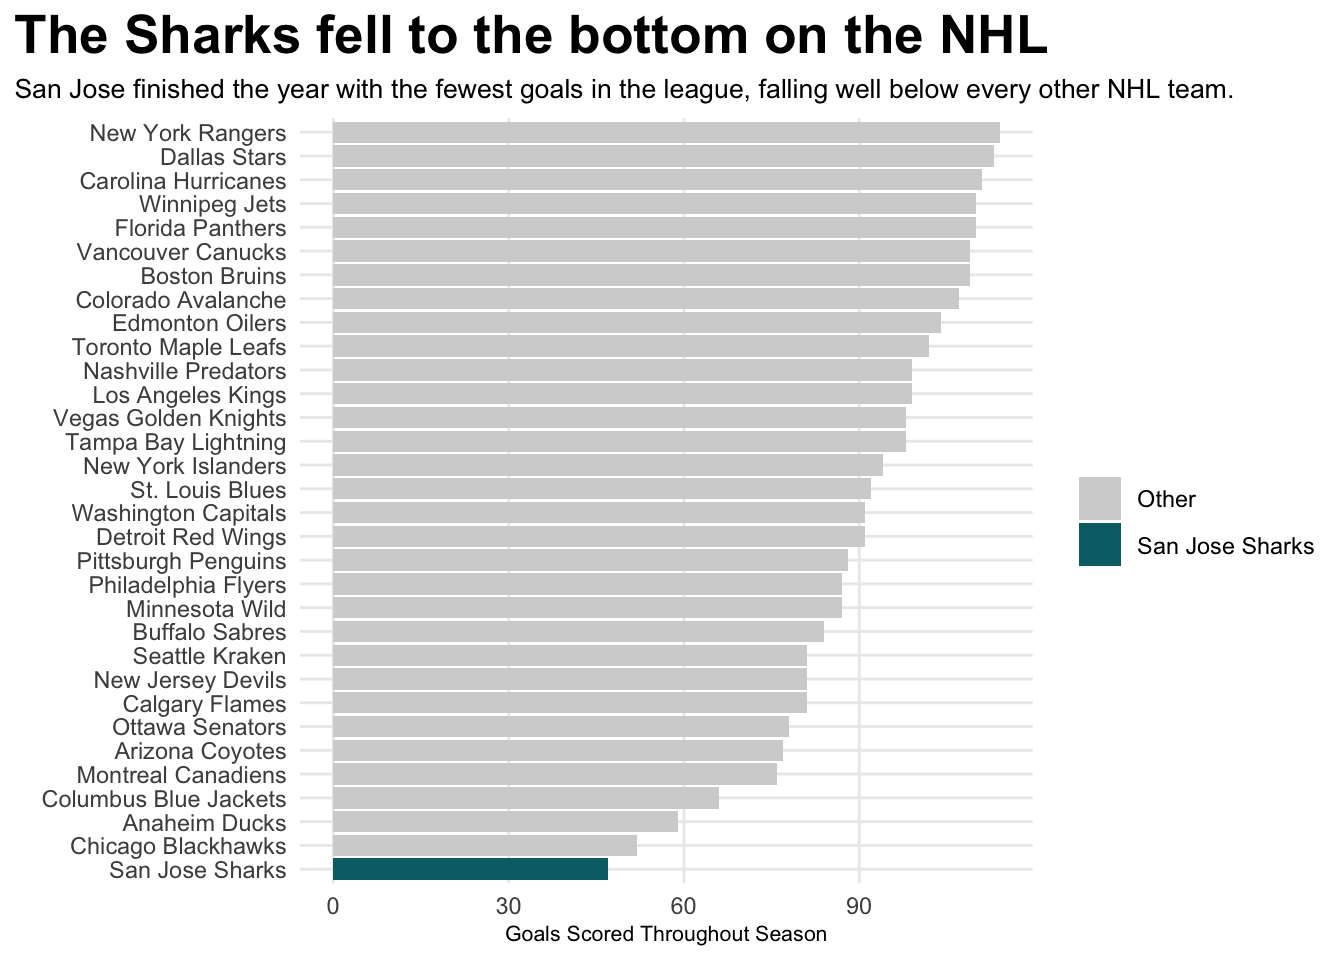
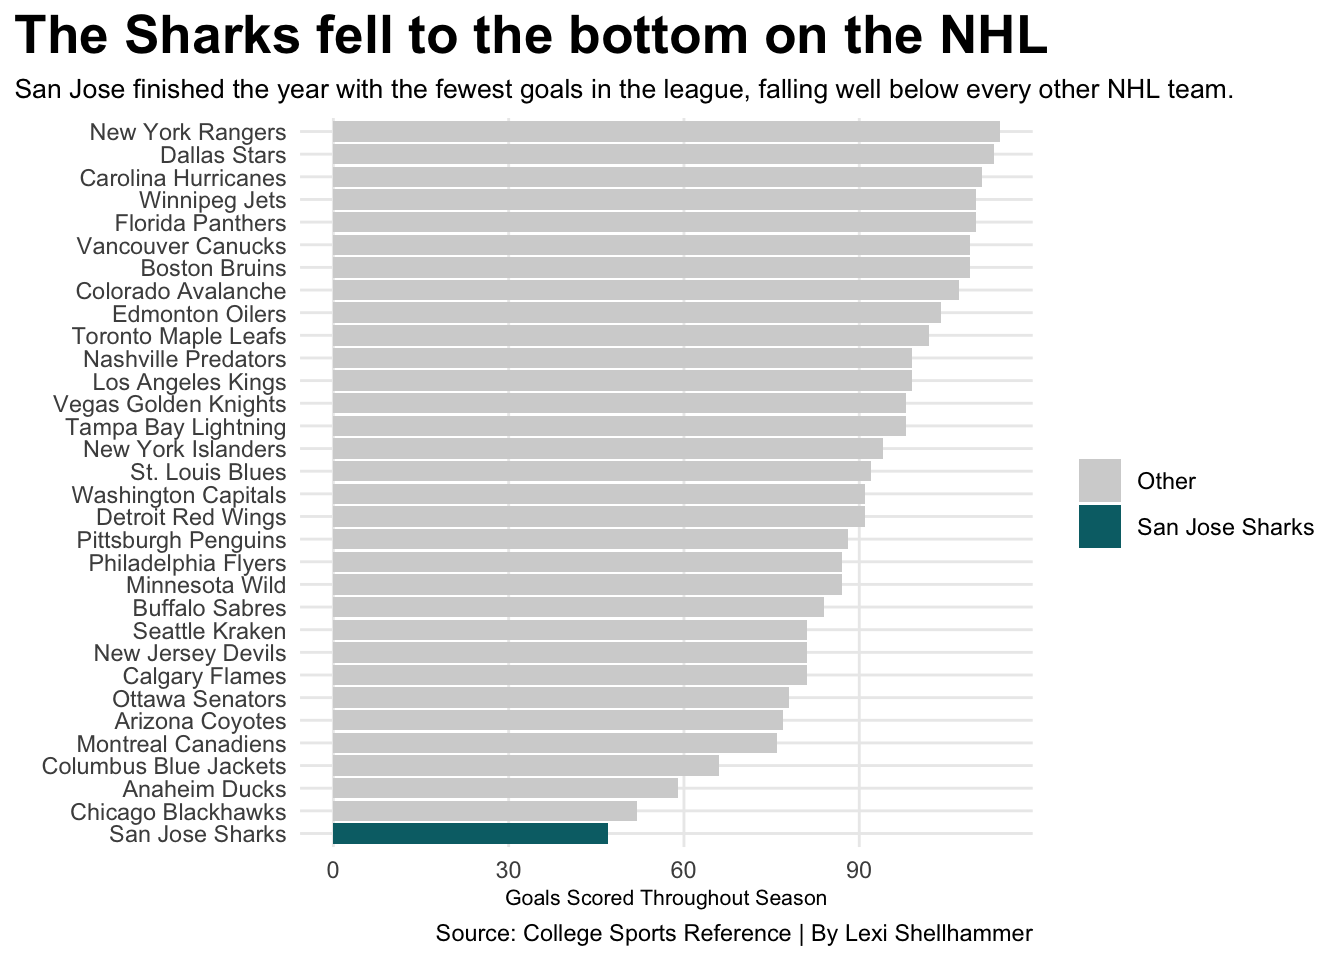
final

Changed region(s): [[0.0312, 0.125, 0.9688, 1.0]]

diff --git a/posts/are-the-2024-san-jose-sharks-really-that-bad/index.html b/posts/are-the-2024-san-jose-sharks-really-that-bad/index.html
@@ -219,18 +219,20 @@ pre > code.sourceCode > span > a:first-child::before { text-decoration: underlin
 <span id="cb1-14"><a href="#cb1-14" aria-hidden="true" tabindex="-1"></a>  <span class="fu">labs</span>(</span>
 <span id="cb1-15"><a href="#cb1-15" aria-hidden="true" tabindex="-1"></a>    <span class="at">title =</span> <span class="st">"The Sharks fell to the bottom on the NHL"</span>,</span>
 <span id="cb1-16"><a href="#cb1-16" aria-hidden="true" tabindex="-1"></a>    <span class="at">subtitle =</span> <span class="st">"San Jose finished the year with the fewest goals in the league, falling well below every other NHL team."</span>,</span>
-<span id="cb1-17"><a href="#cb1-17" aria-hidden="true" tabindex="-1"></a>    <span class="at">x =</span> <span class="st">" "</span>,</span>
-<span id="cb1-18"><a href="#cb1-18" aria-hidden="true" tabindex="-1"></a>    <span class="at">y =</span> <span class="st">"Goals Scored Throughout Season"</span>,</span>
-<span id="cb1-19"><a href="#cb1-19" aria-hidden="true" tabindex="-1"></a>    <span class="at">fill =</span> <span class="st">""</span></span>
-<span id="cb1-20"><a href="#cb1-20" aria-hidden="true" tabindex="-1"></a>  ) <span class="sc">+</span></span>
-<span id="cb1-21"><a href="#cb1-21" aria-hidden="true" tabindex="-1"></a>  <span class="fu">theme_minimal</span>() <span class="sc">+</span> </span>
-<span id="cb1-22"><a href="#cb1-22" aria-hidden="true" tabindex="-1"></a>  <span class="fu">theme</span>(</span>
-<span id="cb1-23"><a href="#cb1-23" aria-hidden="true" tabindex="-1"></a>    <span class="at">plot.title =</span> <span class="fu">element_text</span>(<span class="at">size =</span> <span class="dv">20</span>, <span class="at">face =</span> <span class="st">"bold"</span>),</span>
-<span id="cb1-24"><a href="#cb1-24" aria-hidden="true" tabindex="-1"></a>    <span class="at">axis.title =</span> <span class="fu">element_text</span>(<span class="at">size =</span> <span class="dv">8</span>), </span>
-<span id="cb1-25"><a href="#cb1-25" aria-hidden="true" tabindex="-1"></a>    <span class="at">plot.subtitle =</span> <span class="fu">element_text</span>(<span class="at">size=</span><span class="dv">10</span>), </span>
-<span id="cb1-26"><a href="#cb1-26" aria-hidden="true" tabindex="-1"></a>    <span class="at">panel.grid.minor =</span> <span class="fu">element_blank</span>(),</span>
-<span id="cb1-27"><a href="#cb1-27" aria-hidden="true" tabindex="-1"></a>    <span class="at">plot.title.position =</span> <span class="st">"plot"</span></span>
-<span id="cb1-28"><a href="#cb1-28" aria-hidden="true" tabindex="-1"></a>    ) </span></code></pre></div><button title="Copy to Clipboard" class="code-copy-button"><i class="bi"></i></button></div>
+<span id="cb1-17"><a href="#cb1-17" aria-hidden="true" tabindex="-1"></a>    <span class="at">caption=</span><span class="st">"Source: College Sports Reference | By Lexi Shellhammer"</span>,</span>
+<span id="cb1-18"><a href="#cb1-18" aria-hidden="true" tabindex="-1"></a>    <span class="at">x =</span> <span class="st">" "</span>,</span>
+<span id="cb1-19"><a href="#cb1-19" aria-hidden="true" tabindex="-1"></a>    <span class="at">y =</span> <span class="st">"Goals Scored Throughout Season"</span>,</span>
+<span id="cb1-20"><a href="#cb1-20" aria-hidden="true" tabindex="-1"></a>    </span>
+<span id="cb1-21"><a href="#cb1-21" aria-hidden="true" tabindex="-1"></a>    <span class="at">fill =</span> <span class="st">""</span></span>
+<span id="cb1-22"><a href="#cb1-22" aria-hidden="true" tabindex="-1"></a>  ) <span class="sc">+</span></span>
+<span id="cb1-23"><a href="#cb1-23" aria-hidden="true" tabindex="-1"></a>  <span class="fu">theme_minimal</span>() <span class="sc">+</span> </span>
+<span id="cb1-24"><a href="#cb1-24" aria-hidden="true" tabindex="-1"></a>  <span class="fu">theme</span>(</span>
+<span id="cb1-25"><a href="#cb1-25" aria-hidden="true" tabindex="-1"></a>    <span class="at">plot.title =</span> <span class="fu">element_text</span>(<span class="at">size =</span> <span class="dv">20</span>, <span class="at">face =</span> <span class="st">"bold"</span>),</span>
+<span id="cb1-26"><a href="#cb1-26" aria-hidden="true" tabindex="-1"></a>    <span class="at">axis.title =</span> <span class="fu">element_text</span>(<span class="at">size =</span> <span class="dv">8</span>), </span>
+<span id="cb1-27"><a href="#cb1-27" aria-hidden="true" tabindex="-1"></a>    <span class="at">plot.subtitle =</span> <span class="fu">element_text</span>(<span class="at">size=</span><span class="dv">10</span>), </span>
+<span id="cb1-28"><a href="#cb1-28" aria-hidden="true" tabindex="-1"></a>    <span class="at">panel.grid.minor =</span> <span class="fu">element_blank</span>(),</span>
+<span id="cb1-29"><a href="#cb1-29" aria-hidden="true" tabindex="-1"></a>    <span class="at">plot.title.position =</span> <span class="st">"plot"</span></span>
+<span id="cb1-30"><a href="#cb1-30" aria-hidden="true" tabindex="-1"></a>    ) </span></code></pre></div><button title="Copy to Clipboard" class="code-copy-button"><i class="bi"></i></button></div>
 </details>
 <div class="cell-output-display">
 <div>
@@ -268,18 +270,19 @@ pre > code.sourceCode > span > a:first-child::before { text-decoration: underlin
 <span id="cb2-19"><a href="#cb2-19" aria-hidden="true" tabindex="-1"></a>  <span class="fu">labs</span>(</span>
 <span id="cb2-20"><a href="#cb2-20" aria-hidden="true" tabindex="-1"></a>    <span class="at">title =</span> <span class="st">"Exposing the defensive and offensive</span><span class="sc">\n</span><span class="st">breakdown of the Sharks"</span>,</span>
 <span id="cb2-21"><a href="#cb2-21" aria-hidden="true" tabindex="-1"></a>    <span class="at">subtitle =</span> <span class="st">"The Sharks’ combination of low scoring and high goals allowed pushed them to the</span><span class="sc">\n</span><span class="st">bottom of the league, while other teams separated themselves through stronger two-way play."</span>,</span>
-<span id="cb2-22"><a href="#cb2-22" aria-hidden="true" tabindex="-1"></a>    <span class="at">x =</span> <span class="st">"Goals Scored"</span>,</span>
-<span id="cb2-23"><a href="#cb2-23" aria-hidden="true" tabindex="-1"></a>    <span class="at">y =</span> <span class="st">"Goals Allowed"</span>,</span>
-<span id="cb2-24"><a href="#cb2-24" aria-hidden="true" tabindex="-1"></a>    <span class="at">color =</span> <span class="st">""</span></span>
-<span id="cb2-25"><a href="#cb2-25" aria-hidden="true" tabindex="-1"></a>  ) <span class="sc">+</span></span>
-<span id="cb2-26"><a href="#cb2-26" aria-hidden="true" tabindex="-1"></a>  <span class="fu">theme_minimal</span>() <span class="sc">+</span> </span>
-<span id="cb2-27"><a href="#cb2-27" aria-hidden="true" tabindex="-1"></a>  <span class="fu">theme</span>(</span>
-<span id="cb2-28"><a href="#cb2-28" aria-hidden="true" tabindex="-1"></a>    <span class="at">plot.title =</span> <span class="fu">element_text</span>(<span class="at">size =</span> <span class="dv">20</span>, <span class="at">face =</span> <span class="st">"bold"</span>),</span>
-<span id="cb2-29"><a href="#cb2-29" aria-hidden="true" tabindex="-1"></a>    <span class="at">axis.title =</span> <span class="fu">element_text</span>(<span class="at">size =</span> <span class="dv">8</span>), </span>
-<span id="cb2-30"><a href="#cb2-30" aria-hidden="true" tabindex="-1"></a>    <span class="at">plot.subtitle =</span> <span class="fu">element_text</span>(<span class="at">size=</span><span class="dv">10</span>), </span>
-<span id="cb2-31"><a href="#cb2-31" aria-hidden="true" tabindex="-1"></a>    <span class="at">panel.grid.minor =</span> <span class="fu">element_blank</span>(),</span>
-<span id="cb2-32"><a href="#cb2-32" aria-hidden="true" tabindex="-1"></a>    <span class="at">plot.title.position =</span> <span class="st">"plot"</span></span>
-<span id="cb2-33"><a href="#cb2-33" aria-hidden="true" tabindex="-1"></a>    ) </span></code></pre></div><button title="Copy to Clipboard" class="code-copy-button"><i class="bi"></i></button></div>
+<span id="cb2-22"><a href="#cb2-22" aria-hidden="true" tabindex="-1"></a>    <span class="at">caption=</span><span class="st">"Source: College Sports Reference | By Lexi Shellhammer"</span>,</span>
+<span id="cb2-23"><a href="#cb2-23" aria-hidden="true" tabindex="-1"></a>    <span class="at">x =</span> <span class="st">"Goals Scored"</span>,</span>
+<span id="cb2-24"><a href="#cb2-24" aria-hidden="true" tabindex="-1"></a>    <span class="at">y =</span> <span class="st">"Goals Allowed"</span>,</span>
+<span id="cb2-25"><a href="#cb2-25" aria-hidden="true" tabindex="-1"></a>    <span class="at">color =</span> <span class="st">""</span></span>
+<span id="cb2-26"><a href="#cb2-26" aria-hidden="true" tabindex="-1"></a>  ) <span class="sc">+</span></span>
+<span id="cb2-27"><a href="#cb2-27" aria-hidden="true" tabindex="-1"></a>  <span class="fu">theme_minimal</span>() <span class="sc">+</span> </span>
+<span id="cb2-28"><a href="#cb2-28" aria-hidden="true" tabindex="-1"></a>  <span class="fu">theme</span>(</span>
+<span id="cb2-29"><a href="#cb2-29" aria-hidden="true" tabindex="-1"></a>    <span class="at">plot.title =</span> <span class="fu">element_text</span>(<span class="at">size =</span> <span class="dv">20</span>, <span class="at">face =</span> <span class="st">"bold"</span>),</span>
+<span id="cb2-30"><a href="#cb2-30" aria-hidden="true" tabindex="-1"></a>    <span class="at">axis.title =</span> <span class="fu">element_text</span>(<span class="at">size =</span> <span class="dv">8</span>), </span>
+<span id="cb2-31"><a href="#cb2-31" aria-hidden="true" tabindex="-1"></a>    <span class="at">plot.subtitle =</span> <span class="fu">element_text</span>(<span class="at">size=</span><span class="dv">10</span>), </span>
+<span id="cb2-32"><a href="#cb2-32" aria-hidden="true" tabindex="-1"></a>    <span class="at">panel.grid.minor =</span> <span class="fu">element_blank</span>(),</span>
+<span id="cb2-33"><a href="#cb2-33" aria-hidden="true" tabindex="-1"></a>    <span class="at">plot.title.position =</span> <span class="st">"plot"</span></span>
+<span id="cb2-34"><a href="#cb2-34" aria-hidden="true" tabindex="-1"></a>    ) </span></code></pre></div><button title="Copy to Clipboard" class="code-copy-button"><i class="bi"></i></button></div>
 </details>
 <div class="cell-output-display">
 <div>
@@ -339,18 +342,19 @@ pre > code.sourceCode > span > a:first-child::before { text-decoration: underlin
 <span id="cb3-42"><a href="#cb3-42" aria-hidden="true" tabindex="-1"></a>   <span class="fu">labs</span>(</span>
 <span id="cb3-43"><a href="#cb3-43" aria-hidden="true" tabindex="-1"></a>    <span class="at">title =</span> <span class="st">"The Sharks sink in the Pacific Division"</span>,</span>
 <span id="cb3-44"><a href="#cb3-44" aria-hidden="true" tabindex="-1"></a>    <span class="at">subtitle =</span> <span class="st">"Looking at each games cumulative goal differential shows how San Jose seperates</span><span class="sc">\n</span><span class="st">sharply from the rest of the division as the season progresses."</span>,</span>
-<span id="cb3-45"><a href="#cb3-45" aria-hidden="true" tabindex="-1"></a>    <span class="at">x =</span> <span class="st">"Date"</span>,</span>
-<span id="cb3-46"><a href="#cb3-46" aria-hidden="true" tabindex="-1"></a>    <span class="at">y =</span> <span class="st">"Cumulative Difference of Goals"</span>,</span>
-<span id="cb3-47"><a href="#cb3-47" aria-hidden="true" tabindex="-1"></a>    <span class="at">color =</span> <span class="st">""</span></span>
-<span id="cb3-48"><a href="#cb3-48" aria-hidden="true" tabindex="-1"></a>  ) <span class="sc">+</span></span>
-<span id="cb3-49"><a href="#cb3-49" aria-hidden="true" tabindex="-1"></a>  <span class="fu">theme_minimal</span>() <span class="sc">+</span> </span>
-<span id="cb3-50"><a href="#cb3-50" aria-hidden="true" tabindex="-1"></a>  <span class="fu">theme</span>(</span>
-<span id="cb3-51"><a href="#cb3-51" aria-hidden="true" tabindex="-1"></a>    <span class="at">plot.title =</span> <span class="fu">element_text</span>(<span class="at">size =</span> <span class="dv">20</span>, <span class="at">face =</span> <span class="st">"bold"</span>),</span>
-<span id="cb3-52"><a href="#cb3-52" aria-hidden="true" tabindex="-1"></a>    <span class="at">axis.title =</span> <span class="fu">element_text</span>(<span class="at">size =</span> <span class="dv">8</span>), </span>
-<span id="cb3-53"><a href="#cb3-53" aria-hidden="true" tabindex="-1"></a>    <span class="at">plot.subtitle =</span> <span class="fu">element_text</span>(<span class="at">size=</span><span class="dv">10</span>), </span>
-<span id="cb3-54"><a href="#cb3-54" aria-hidden="true" tabindex="-1"></a>    <span class="at">panel.grid.minor =</span> <span class="fu">element_blank</span>(),</span>
-<span id="cb3-55"><a href="#cb3-55" aria-hidden="true" tabindex="-1"></a>    <span class="at">plot.title.position =</span> <span class="st">"plot"</span></span>
-<span id="cb3-56"><a href="#cb3-56" aria-hidden="true" tabindex="-1"></a>    ) </span></code></pre></div><button title="Copy to Clipboard" class="code-copy-button"><i class="bi"></i></button></div>
+<span id="cb3-45"><a href="#cb3-45" aria-hidden="true" tabindex="-1"></a>    <span class="at">caption=</span><span class="st">"Source: College Sports Reference | By Lexi Shellhammer"</span>,</span>
+<span id="cb3-46"><a href="#cb3-46" aria-hidden="true" tabindex="-1"></a>    <span class="at">x =</span> <span class="st">"Date"</span>,</span>
+<span id="cb3-47"><a href="#cb3-47" aria-hidden="true" tabindex="-1"></a>    <span class="at">y =</span> <span class="st">"Cumulative Difference of Goals"</span>,</span>
+<span id="cb3-48"><a href="#cb3-48" aria-hidden="true" tabindex="-1"></a>    <span class="at">color =</span> <span class="st">""</span></span>
+<span id="cb3-49"><a href="#cb3-49" aria-hidden="true" tabindex="-1"></a>  ) <span class="sc">+</span></span>
+<span id="cb3-50"><a href="#cb3-50" aria-hidden="true" tabindex="-1"></a>  <span class="fu">theme_minimal</span>() <span class="sc">+</span> </span>
+<span id="cb3-51"><a href="#cb3-51" aria-hidden="true" tabindex="-1"></a>  <span class="fu">theme</span>(</span>
+<span id="cb3-52"><a href="#cb3-52" aria-hidden="true" tabindex="-1"></a>    <span class="at">plot.title =</span> <span class="fu">element_text</span>(<span class="at">size =</span> <span class="dv">20</span>, <span class="at">face =</span> <span class="st">"bold"</span>),</span>
+<span id="cb3-53"><a href="#cb3-53" aria-hidden="true" tabindex="-1"></a>    <span class="at">axis.title =</span> <span class="fu">element_text</span>(<span class="at">size =</span> <span class="dv">8</span>), </span>
+<span id="cb3-54"><a href="#cb3-54" aria-hidden="true" tabindex="-1"></a>    <span class="at">plot.subtitle =</span> <span class="fu">element_text</span>(<span class="at">size=</span><span class="dv">10</span>), </span>
+<span id="cb3-55"><a href="#cb3-55" aria-hidden="true" tabindex="-1"></a>    <span class="at">panel.grid.minor =</span> <span class="fu">element_blank</span>(),</span>
+<span id="cb3-56"><a href="#cb3-56" aria-hidden="true" tabindex="-1"></a>    <span class="at">plot.title.position =</span> <span class="st">"plot"</span></span>
+<span id="cb3-57"><a href="#cb3-57" aria-hidden="true" tabindex="-1"></a>    ) </span></code></pre></div><button title="Copy to Clipboard" class="code-copy-button"><i class="bi"></i></button></div>
 </details>
 <div class="cell-output-display">
 <div>

diff --git a/index.html b/index.html
@@ -209,7 +209,7 @@ window.Quarto = {
 
 <div class="quarto-listing quarto-listing-container-default" id="listing-listing">
 <div class="list quarto-listing-default">
-<div class="quarto-post image-right" data-index="0" data-categories="bmhsJTJDc2Fuam9zZSUyQ2hvY2tleSUyQ3Nhbmpvc2VzaGFya3M=" data-listing-date-sort="1765260000000" data-listing-file-modified-sort="1765299620876" data-listing-date-modified-sort="NaN" data-listing-reading-time-sort="7" data-listing-word-count-sort="1275">
+<div class="quarto-post image-right" data-index="0" data-categories="bmhsJTJDc2Fuam9zZSUyQ2hvY2tleSUyQ3Nhbmpvc2VzaGFya3M=" data-listing-date-sort="1765260000000" data-listing-file-modified-sort="1765324196265" data-listing-date-modified-sort="NaN" data-listing-reading-time-sort="7" data-listing-word-count-sort="1312">
 <div class="thumbnail"><a href="./posts/are-the-2024-san-jose-sharks-really-that-bad/index.html" class="no-external">
 
 <img loading="lazy" src="./posts/are-the-2024-san-jose-sharks-really-that-bad/image.png" class="thumbnail-image">
